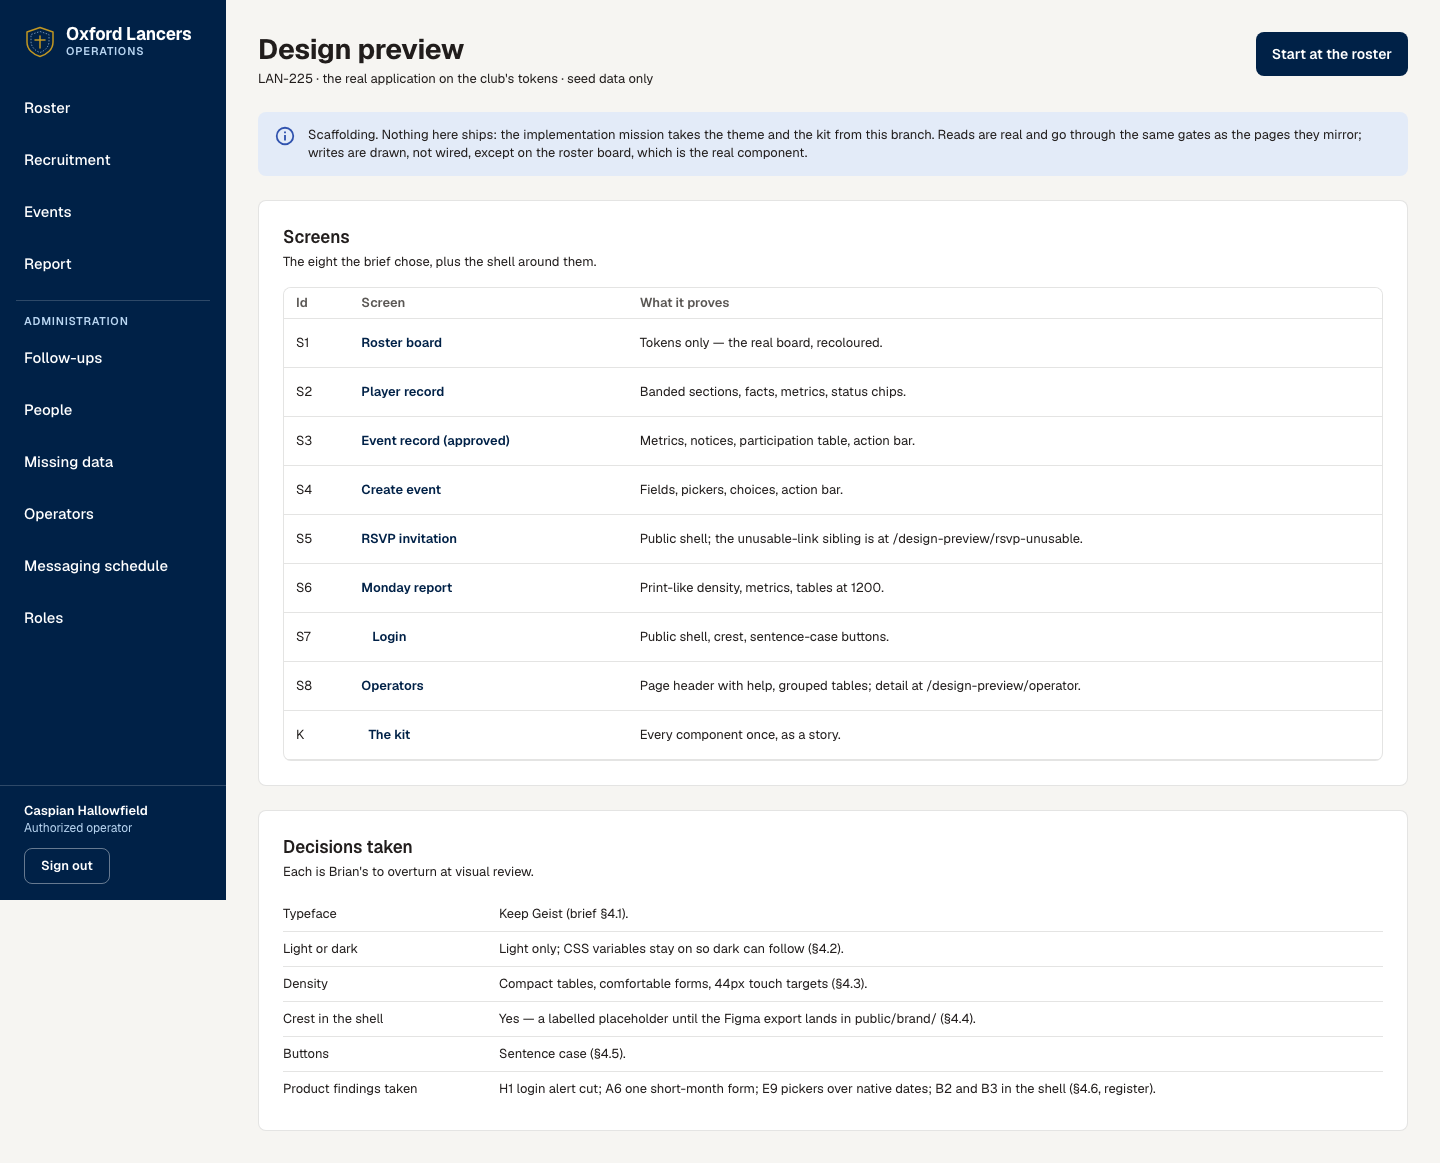
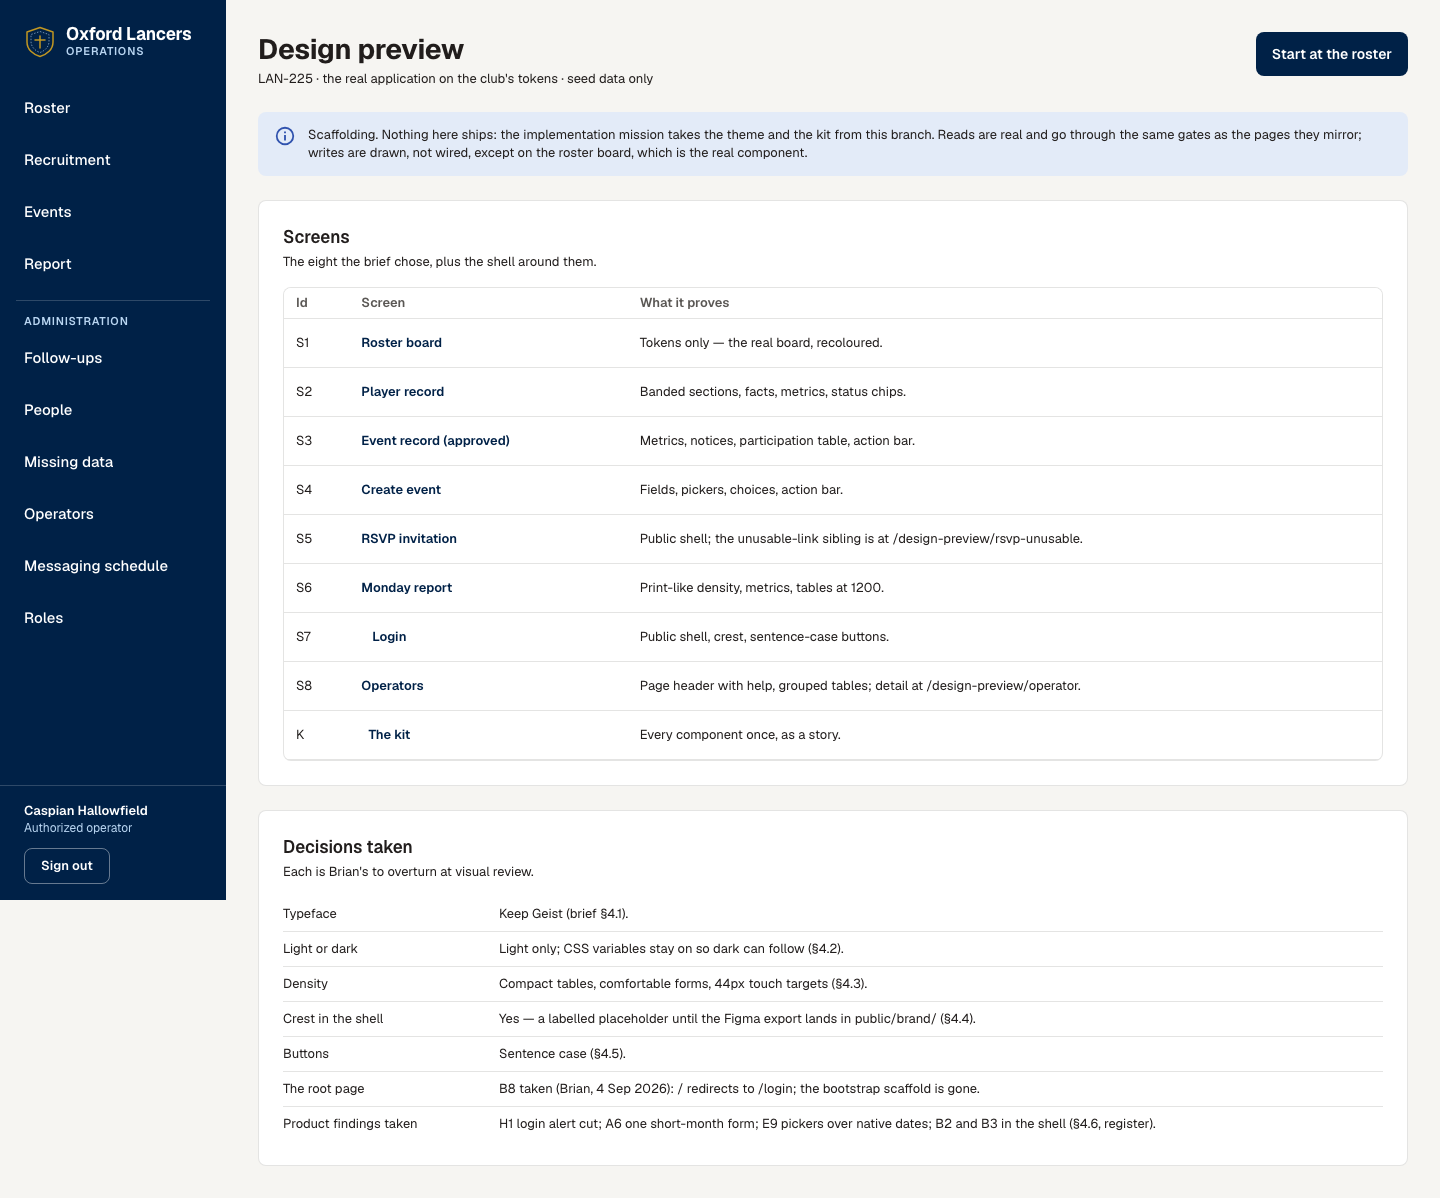
Make the root the sign-in page, not the bootstrap scaffold
`/` still served LAN-71's wiring proof: a heading, a paragraph calling the
repository an "infrastructure scaffold" whose "only job is to prove the
development, CI, and deployment loop", and buttons to `/dashboard` and
`/login`. It was never replaced, and it is the first thing anyone arriving at
the club's operations platform saw. Audit finding B8, taken on Brian's
decision at the 4 September 2026 visual review.

A redirect rather than a second copy of the form: `/login` stays the one
canonical sign-in route named by the proxy, the recovery emails and the route
contract, so `redirectTo` keeps working from one place.

The route contract gains the row it never had for `/`. The RSVP dead-link
test's comment is corrected: it forbids linking to `/` because that put a
stranger one tap from an operator sign-in, and `/` is now the sign-in itself,
so the rule holds for a more direct reason. Its assertions are unchanged and
still pass.

Claude-Session: https://claude.ai/code/session_01LqaZg1iuGcjZ3eSoPQPFve

diff --git a/src/app/page.tsx b/src/app/page.tsx
@@ -1,40 +1,23 @@
-import Box from "@mui/material/Box";
-import Button from "@mui/material/Button";
-import Container from "@mui/material/Container";
-import Stack from "@mui/material/Stack";
-import Typography from "@mui/material/Typography";
+import { redirect } from "next/navigation";
 
 /**
- * The trivial page that proves the app renders and deploys.
+ * The root is the sign-in page. Audit finding B8, taken as a delta on Brian's
+ * decision at the 4 September 2026 visual review (LAN-225).
  *
- * Navigation uses MUI's own `href` (a plain anchor) rather than `component={Link}`:
- * this is a Server Component, and passing the `next/link` function into a Client
- * Component boundary is a build error. When real navigation is built, add a small
- * client-side link adapter — do not reach for `component={Link}` here.
+ * What stood here was LAN-71's bootstrap scaffold: a heading, a paragraph
+ * describing the repository as an "infrastructure scaffold" whose "only job is
+ * to prove the development, CI, and deployment loop", and buttons to
+ * `/dashboard` and `/login`. It was written to prove the deploy loop worked and
+ * was never replaced. Nobody arriving at the club's operations platform should
+ * be told about the CI pipeline, and there is nothing else for a signed-out
+ * visitor to do here.
+ *
+ * A redirect rather than a second copy of the form: `/login` stays the one
+ * canonical sign-in route that the proxy, the recovery emails and the route
+ * contract in `docs/ux/slice-ux.md` all name, and `redirectTo` keeps working
+ * from exactly one place. Signing in from here lands on `/operate`, which is
+ * the login page's own default destination.
  */
 export default function Home() {
-  return (
-    <Container maxWidth="sm">
-      <Box sx={{ py: 10 }}>
-        <Stack spacing={3}>
-          <Typography variant="h4" component="h1">
-            Lancers Operations Platform
-          </Typography>
-          <Typography color="text.secondary">
-            Infrastructure scaffold. This deliberately contains no club domain functionality — no
-            players, rosters, events, attendance, or communications. Its only job is to prove the
-            development, CI, and deployment loop.
-          </Typography>
-          <Stack direction="row" spacing={2}>
-            <Button href="/dashboard" variant="contained">
-              Protected page
-            </Button>
-            <Button href="/login" variant="outlined">
-              Sign in
-            </Button>
-          </Stack>
-        </Stack>
-      </Box>
-    </Container>
-  );
+  redirect("/login");
 }

diff --git a/src/app/page.test.tsx b/src/app/page.test.tsx
@@ -1,18 +1,23 @@
-import { describe, expect, it } from "vitest";
-import { render, screen } from "@testing-library/react";
+/**
+ * The root sends a visitor to the one sign-in route.
+ *
+ * LAN-225 replaced LAN-71's bootstrap scaffold here (audit B8). The assertion
+ * is the destination itself: a copy of the login form at `/` would be a second
+ * canonical sign-in page, and the point of the change is that there is one.
+ */
+import { describe, expect, it, vi } from "vitest";
+
+vi.mock("next/navigation", () => ({
+  redirect: vi.fn((url: string) => {
+    // The real `redirect` throws to unwind the render.
+    throw new Error(`REDIRECT:${url}`);
+  }),
+}));
+
 import Home from "./page";
 
 describe("home page", () => {
-  it("renders and offers the sign-in and protected routes", () => {
-    render(<Home />);
-
-    expect(
-      screen.getByRole("heading", { name: /lancers operations platform/i }),
-    ).toBeInTheDocument();
-    expect(screen.getByRole("link", { name: /sign in/i })).toHaveAttribute("href", "/login");
-    expect(screen.getByRole("link", { name: /protected page/i })).toHaveAttribute(
-      "href",
-      "/dashboard",
-    );
+  it("sends a visitor to the sign-in page", () => {
+    expect(() => Home()).toThrow("REDIRECT:/login");
   });
 });

diff --git a/src/app/rsvp/[token]/screens.test.tsx b/src/app/rsvp/[token]/screens.test.tsx
@@ -365,11 +365,12 @@ describe("UX-63, UX-64 and UX-65 — one response for every unusable link", () =
     expect(container.querySelector("form")).toBeNull();
     expect(container.querySelector("input")).toBeNull();
 
-    // Close used to link to "/", which carries a **Sign in** button and a
-    // **Protected page** button — putting a stranger holding a dead link one
-    // tap from an operator sign-in, which this ticket forbids. Asserting on the
-    // immediate href was not enough to catch that, so the landing page's own
-    // destinations are named here too.
+    // Close used to link to "/", putting a stranger holding a dead link one tap
+    // from an operator sign-in, which this ticket forbids. Asserting on the
+    // immediate href was not enough to catch that, so "/" is named here too.
+    // It was then the bootstrap scaffold, carrying **Sign in** and **Protected
+    // page** buttons; since LAN-225 took audit B8 it redirects straight to
+    // `/login`, so the rule holds for a more direct reason than before.
     for (const link of Array.from(container.querySelectorAll("a"))) {
       const href = link.getAttribute("href") ?? "";
       expect(href).not.toMatch(/\/operate|\/login|\/dashboard/);

diff --git a/docs/ux/review/design-mockup-2026-09/index.html b/docs/ux/review/design-mockup-2026-09/index.html
@@ -218,7 +218,7 @@
       <h1>LAN-225 — Design mockup review</h1>
       <p>
         Proposed captures from <code>chore/lan-225-design-mockup</code> at
-        <code>7ccc7c230519c523a32eb5cdc364a22b6b3fff24</code>, 2026-09-04T21:21:21.969Z, measured
+        <code>7c11997dce0968456d4942a9a1bec35b3413e4b0</code>, 2026-09-04T22:03:49.412Z, measured
         1440×900 and 375×812 through the real login on the local seed. Current captures from the
         LAN-224 audit on <code>main</code> at <code>4a3efa9</code>.
       </p>

diff --git a/src/app/design-preview/(operator)/page.tsx b/src/app/design-preview/(operator)/page.tsx
@@ -88,6 +88,10 @@ const DECISIONS = [
   ],
   ["Buttons", "Sentence case (§4.5)."],
   [
+    "The root page",
+    "B8 taken (Brian, 4 Sep 2026): / redirects to /login; the bootstrap scaffold is gone.",
+  ],
+  [
     "Product findings taken",
     "H1 login alert cut; A6 one short-month form; E9 pickers over native dates; B2 and B3 in the shell (§4.6, register).",
   ],

diff --git a/docs/ux/design-system.md b/docs/ux/design-system.md
@@ -160,12 +160,20 @@ They take the tokens and the band colours and are otherwise untouched.
   the name, on every page reached without a session.
 - The crest file is `public/brand/crest.svg`, supplied by Brian from the Figma;
   the wordmark is set in Geist unless the export brings one.
+- **The root is the sign-in page.** `/` redirects to `/login`; there is no
+  separate landing page. What stood at `/` was LAN-71's bootstrap scaffold,
+  which described the repository as an "infrastructure scaffold" whose only job
+  was to prove the deployment loop, and offered buttons to `/dashboard` and
+  `/login`. Audit finding B8, taken on Brian's decision at the 4 September 2026
+  visual review. `/login` remains the one canonical sign-in route — the proxy,
+  the recovery emails and the route contract all name it — so the root
+  redirects rather than carrying a second copy of the form.
 
 ## 7. What this does not decide
 
 Product findings the audit classed `owner` that this page does not touch:
-`/operate` landing (B4), the help link's home (B6), `/dashboard` and the root
-page (B7, B8), the record's attendance length (F1), unbounded lists (F2),
+`/operate` landing (B4), the help link's home (B6), `/dashboard` (B7), the
+record's attendance length (F1), unbounded lists (F2),
 copy cuts other than H1 (H2–H4, H7), the operator-in-two-groups rule (H8),
 the future "Showed" column (H9), the report's tense (H10). Each stays a
 finding until Brian says otherwise.

diff --git a/docs/ux/slice-ux.md b/docs/ux/slice-ux.md
@@ -77,6 +77,7 @@ RSVP is a direct scoped journey at `/rsvp/[token]`; it never enters `/operate` a
 
 | Route                             | Purpose                                                                    |
 | --------------------------------- | -------------------------------------------------------------------------- |
+| `/`                               | Redirects to `/login`; there is no separate landing page (LAN-225, B8)     |
 | `/login`                          | Operator authentication                                                    |
 | `/forgot-password`                | Request a password-reset link (LAN-125 amendment below)                    |
 | `/reset-password`                 | Choose a new password from a recovery link (LAN-125 amendment below)       |
